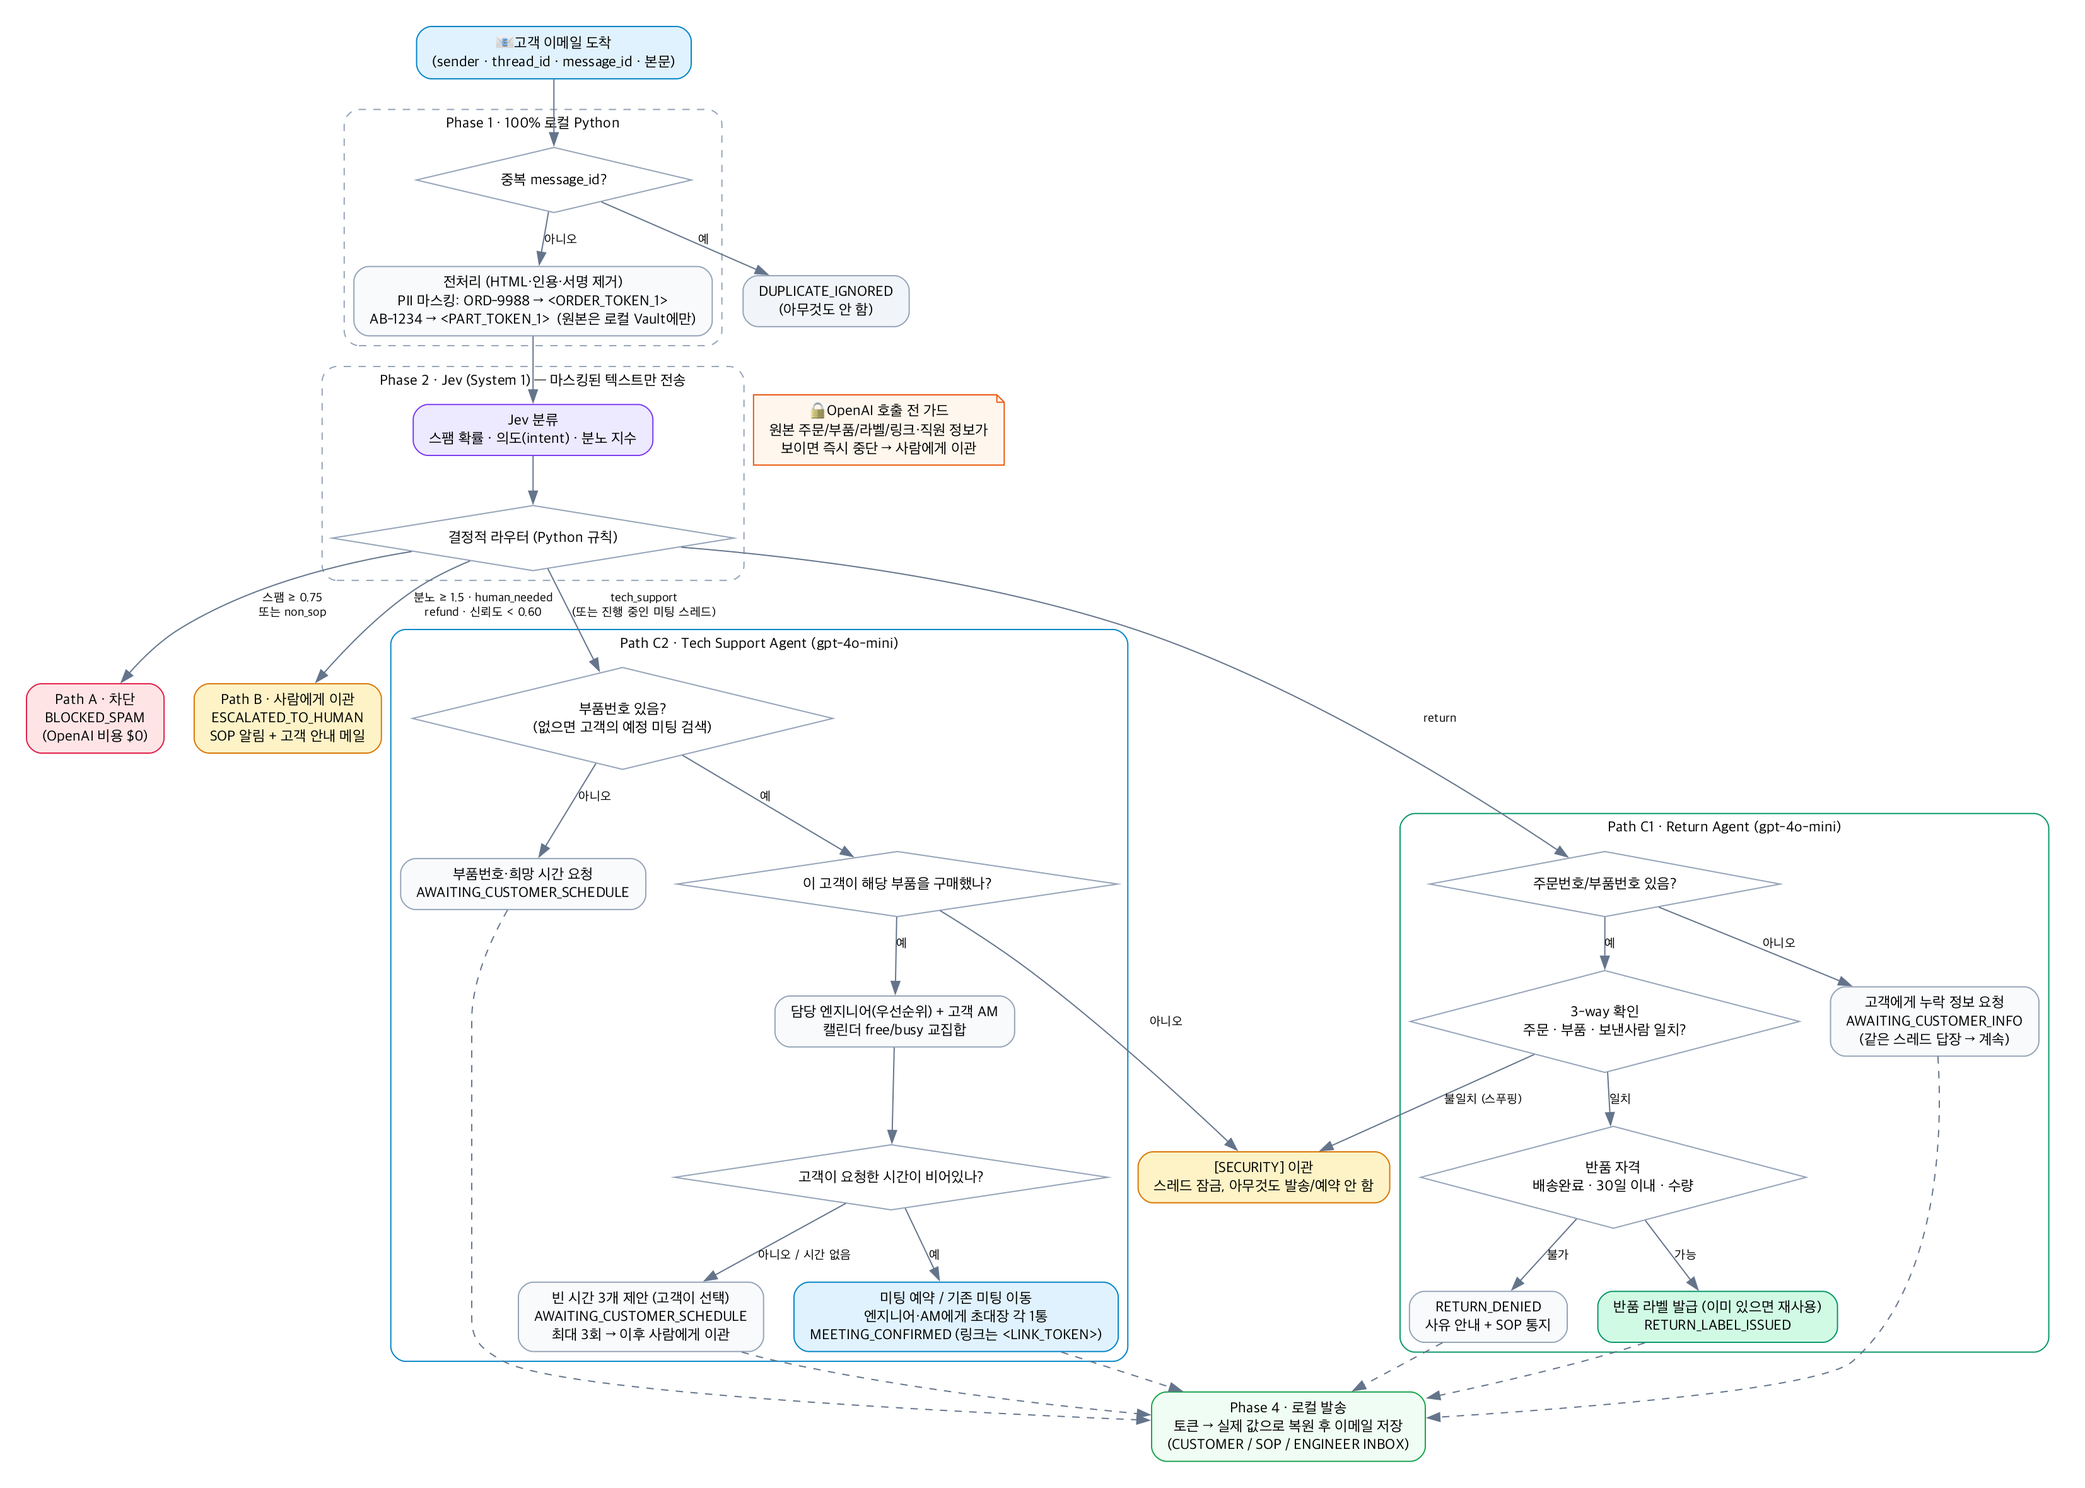
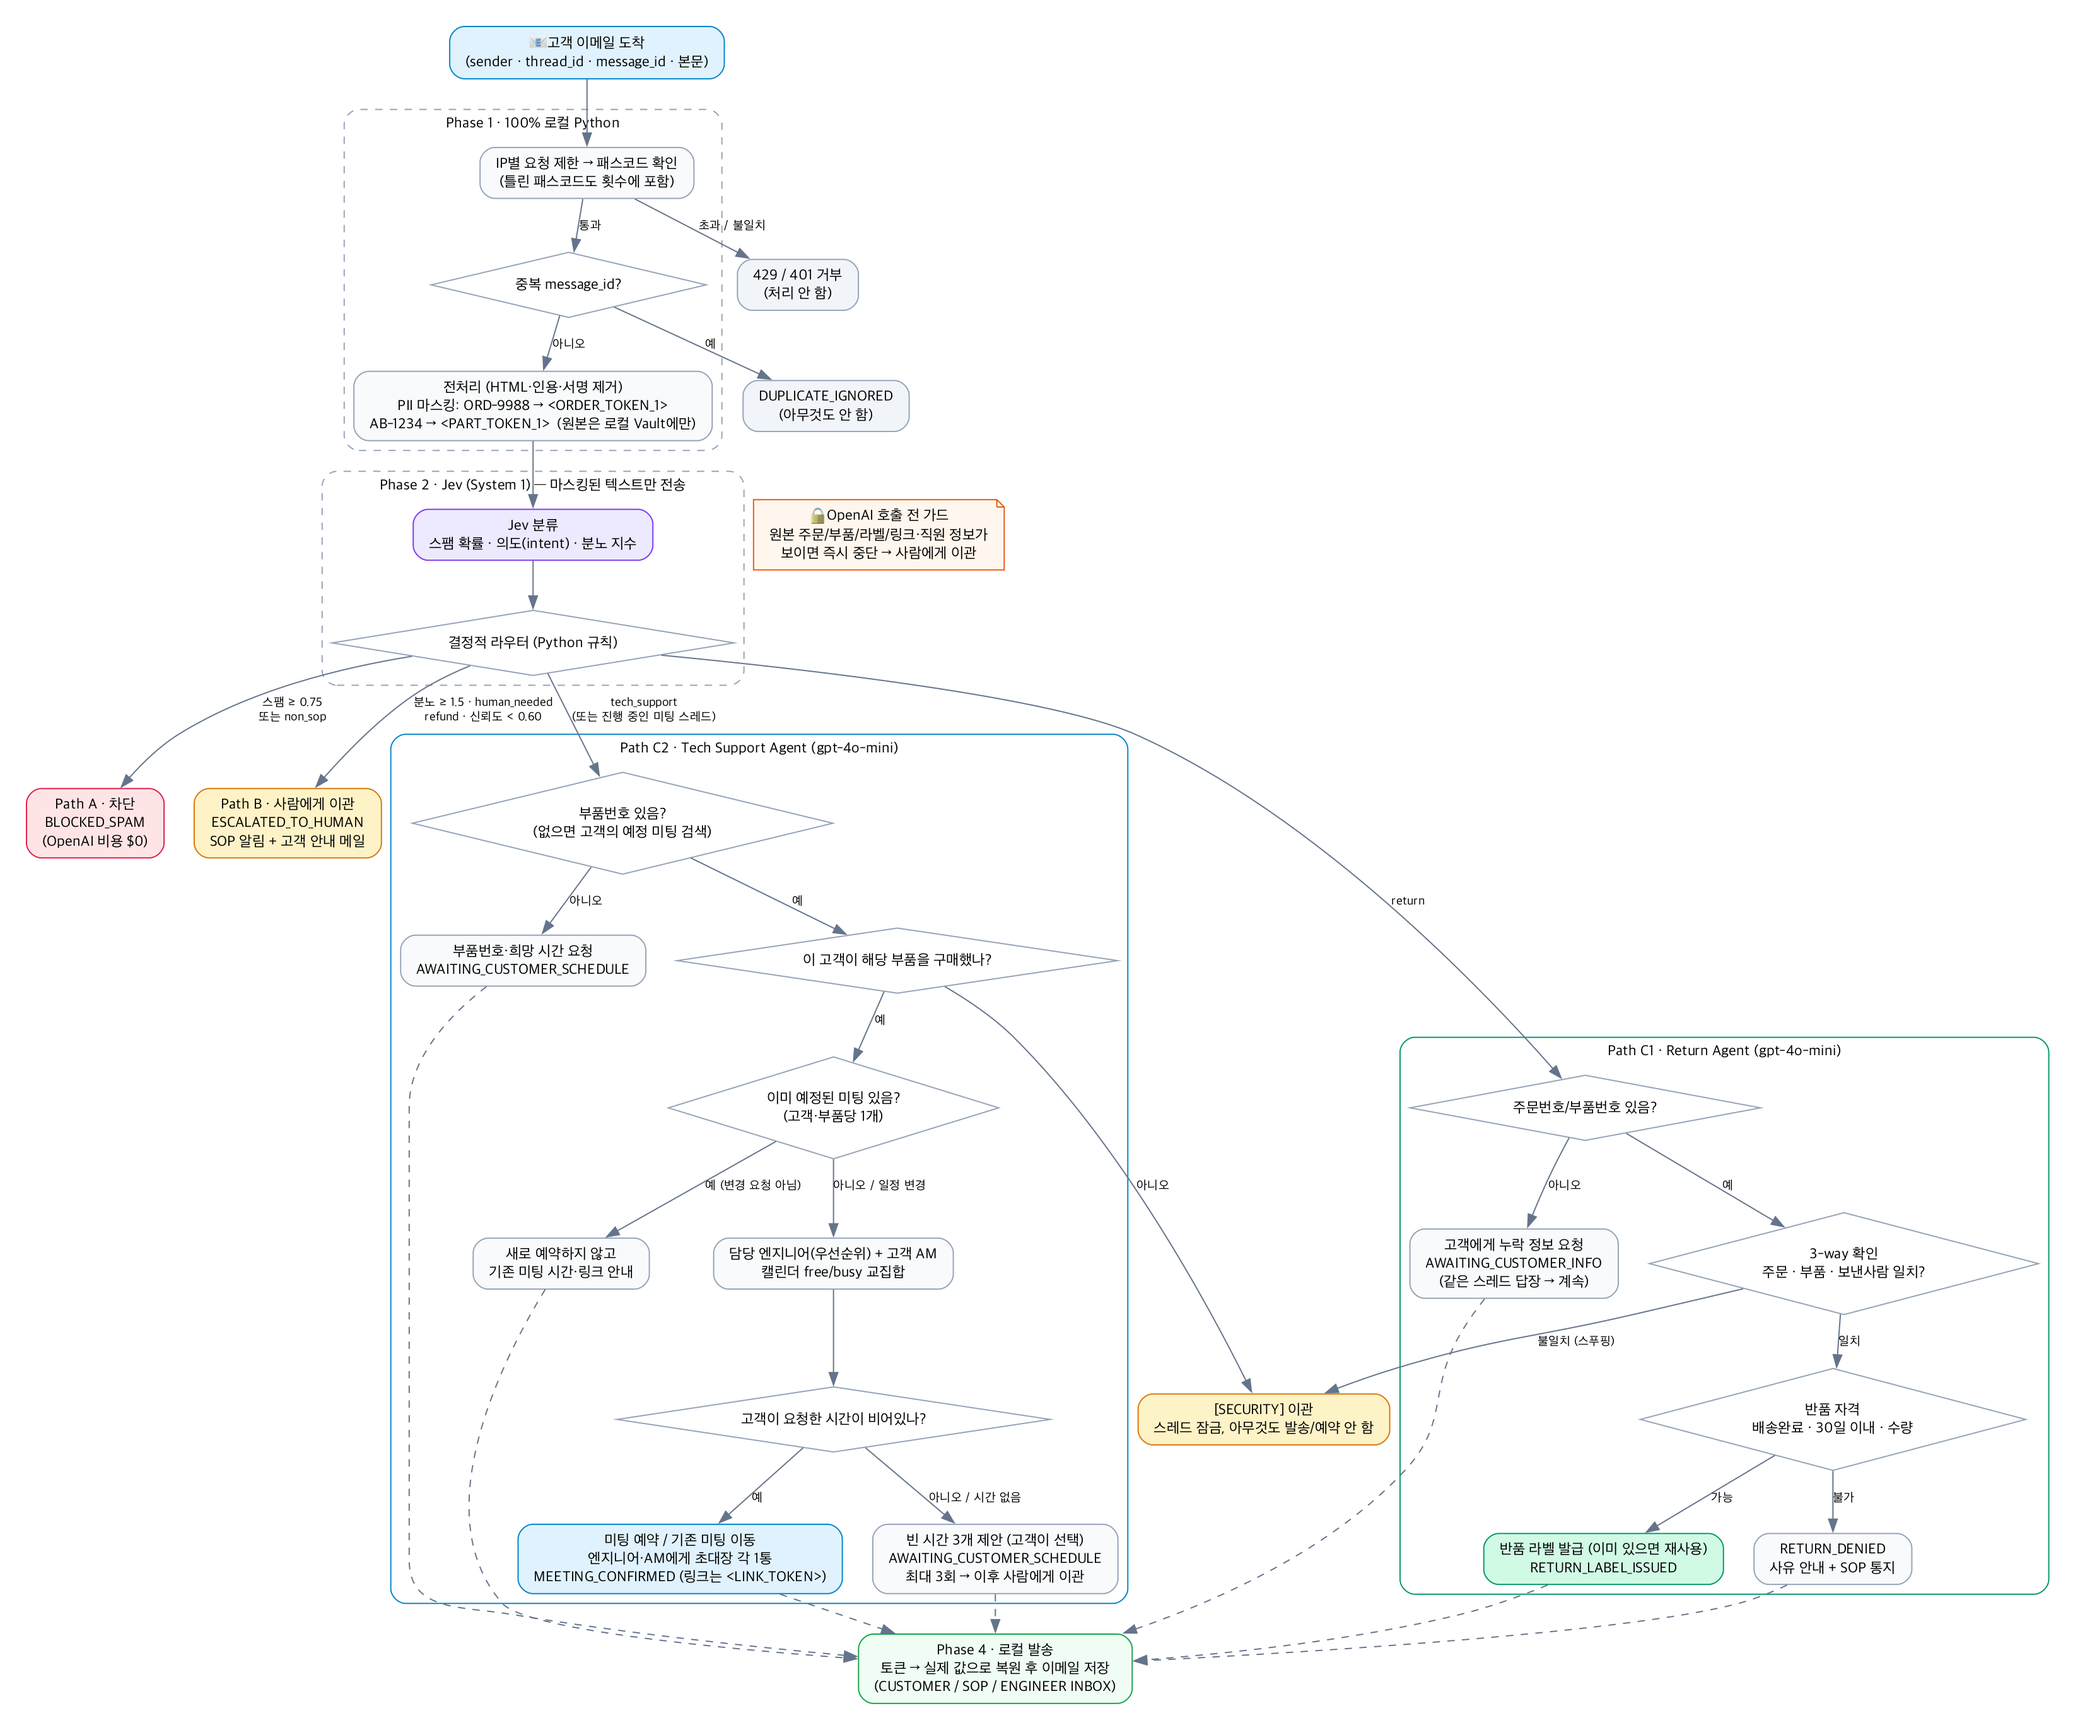
Update README demo notes and flowchart
- README T10: demo with preset 2 only (preset 1 names a time and may be
  treated as a reschedule).
- README step 22: say which time to use (free for engineer and AM in the
  calendar panel).
- Flowchart: add the rate-limit/passcode gate (wrong passcodes count) and
  the "meeting already booked -> tell the customer" branch (T10).

Claude-Session: https://claude.ai/code/session_01LQjqJxz1YcKXCCThp8WkEy

diff --git a/README.md b/README.md
@@ -215,7 +215,7 @@ http://localhost:8080/?code=pick-any-passcode
 | T7  | 구매하지 않은 부품으로 미팅 요청                     | SOP AM에게 `[SECURITY]` 경고, 예약·엔지니어 연락 없음                   | 프리셋 5                                                                                            |
 | T8  | 존재하지 않는 부품번호                               | 부품번호 재확인 요청                                                    | 직접 입력: john@ → `Our ZZ-0000 unit is failing, can an engineer help?`                             |
 | T9  | 제안 시간이 계속 안 맞음(3회 초과)                   | 4번째 조율 메일 대신 AM에게 이관 + 고객 안내                            | 프리셋 2 → ↩ Reply `None of those work, other times?`를 3번(세 번째 답장에서 이관)                  |
-| T10 | 이미 예약된 고객·부품으로 새 미팅 요청               | 새로 예약하지 않고 기존 미팅 안내(고객·부품당 1개)                      | 프리셋 1 이후 프리셋 1 또는 2를 다시 보내기                                                         |
+| T10 | 이미 예약된 고객·부품으로 새 미팅 요청               | 새로 예약하지 않고 기존 미팅 안내(고객·부품당 1개)                      | 프리셋 1 이후 프리셋 2 보내기(프리셋 1은 특정 시간을 말하므로 일정 변경으로 처리될 수 있음)         |
 | T11 | 1순위 엔지니어가 바쁘면 2순위 배정                   | AB-1234: Alex가 바쁜 시간이면 Priya에게 초대                            | 프리셋 1의 시간을 **다음 영업일 오전 10:30**으로 바꿔 보내기(Alex는 바쁘고 Priya·Sarah는 비어 있음) |
 | T12 | 화난 고객 / 스팸 (기술 문의라도)                     | 사람 이관 / 차단 (반품과 같은 안전 규칙)                                | 직접 입력: 대문자로 항의하는 기술 문의                                                              |
 
@@ -258,7 +258,7 @@ http://localhost:8080/?code=pick-any-passcode
 | 19   | **Reset DB** → 프리셋 **4 · Missing Part Number** → ↩ Reply(힌트 문구: 부품 + 시간)               | 부품 요청 → `MEETING_CONFIRMED`                                                     | T6     |
 | 20   | 프리셋 **2 · No Times Given** (같은 John·AB-1234)                                                 | 새로 잡지 않고 19번 미팅 안내                                                       | T10    |
 | 21   | **Reset DB** → 프리셋 **2** → ↩ Reply `Option 2 works for us.`                                    | 제안 → 선택한 시간으로 `MEETING_CONFIRMED`                                          | T4     |
-| 22   | 21번 확인 메일에 **↩ Reply** `Sorry, that time no longer works. Could we do <다른 시간> instead?` | 미팅 이동, 같은 링크, `[Updated invite]` 각 1통, ③ 캘린더 갱신                      | T2     |
+| 22   | 21번 확인 메일에 **↩ Reply** `Sorry, that time no longer works. Could we do <다른 시간> instead?` (`<다른 시간>`은 ③ 캘린더에서 엔지니어·AM 모두 비어 있는 시간) | 미팅 이동, 같은 링크, `[Updated invite]` 각 1통, ③ 캘린더 갱신                      | T2     |
 | 23   | 프리셋 **6 · Reschedule (New Email)**                                                             | 새 스레드가 기존 미팅을 찾아 이동, 중복 예약 없음                                   | T3     |
 | 24   | **Reset DB** → 프리셋 **1 · Happy Path**                                                          | `MEETING_CONFIRMED`, 초대장 각 1통                                                  | T1     |
 | 25   | (선택) Reset DB → 프리셋 1의 시간을 **다음 영업일 오전 10:30**으로 바꿔 Send                      | Priya에게 초대(Alex는 그 시간 고객 방문)                                            | T11    |
